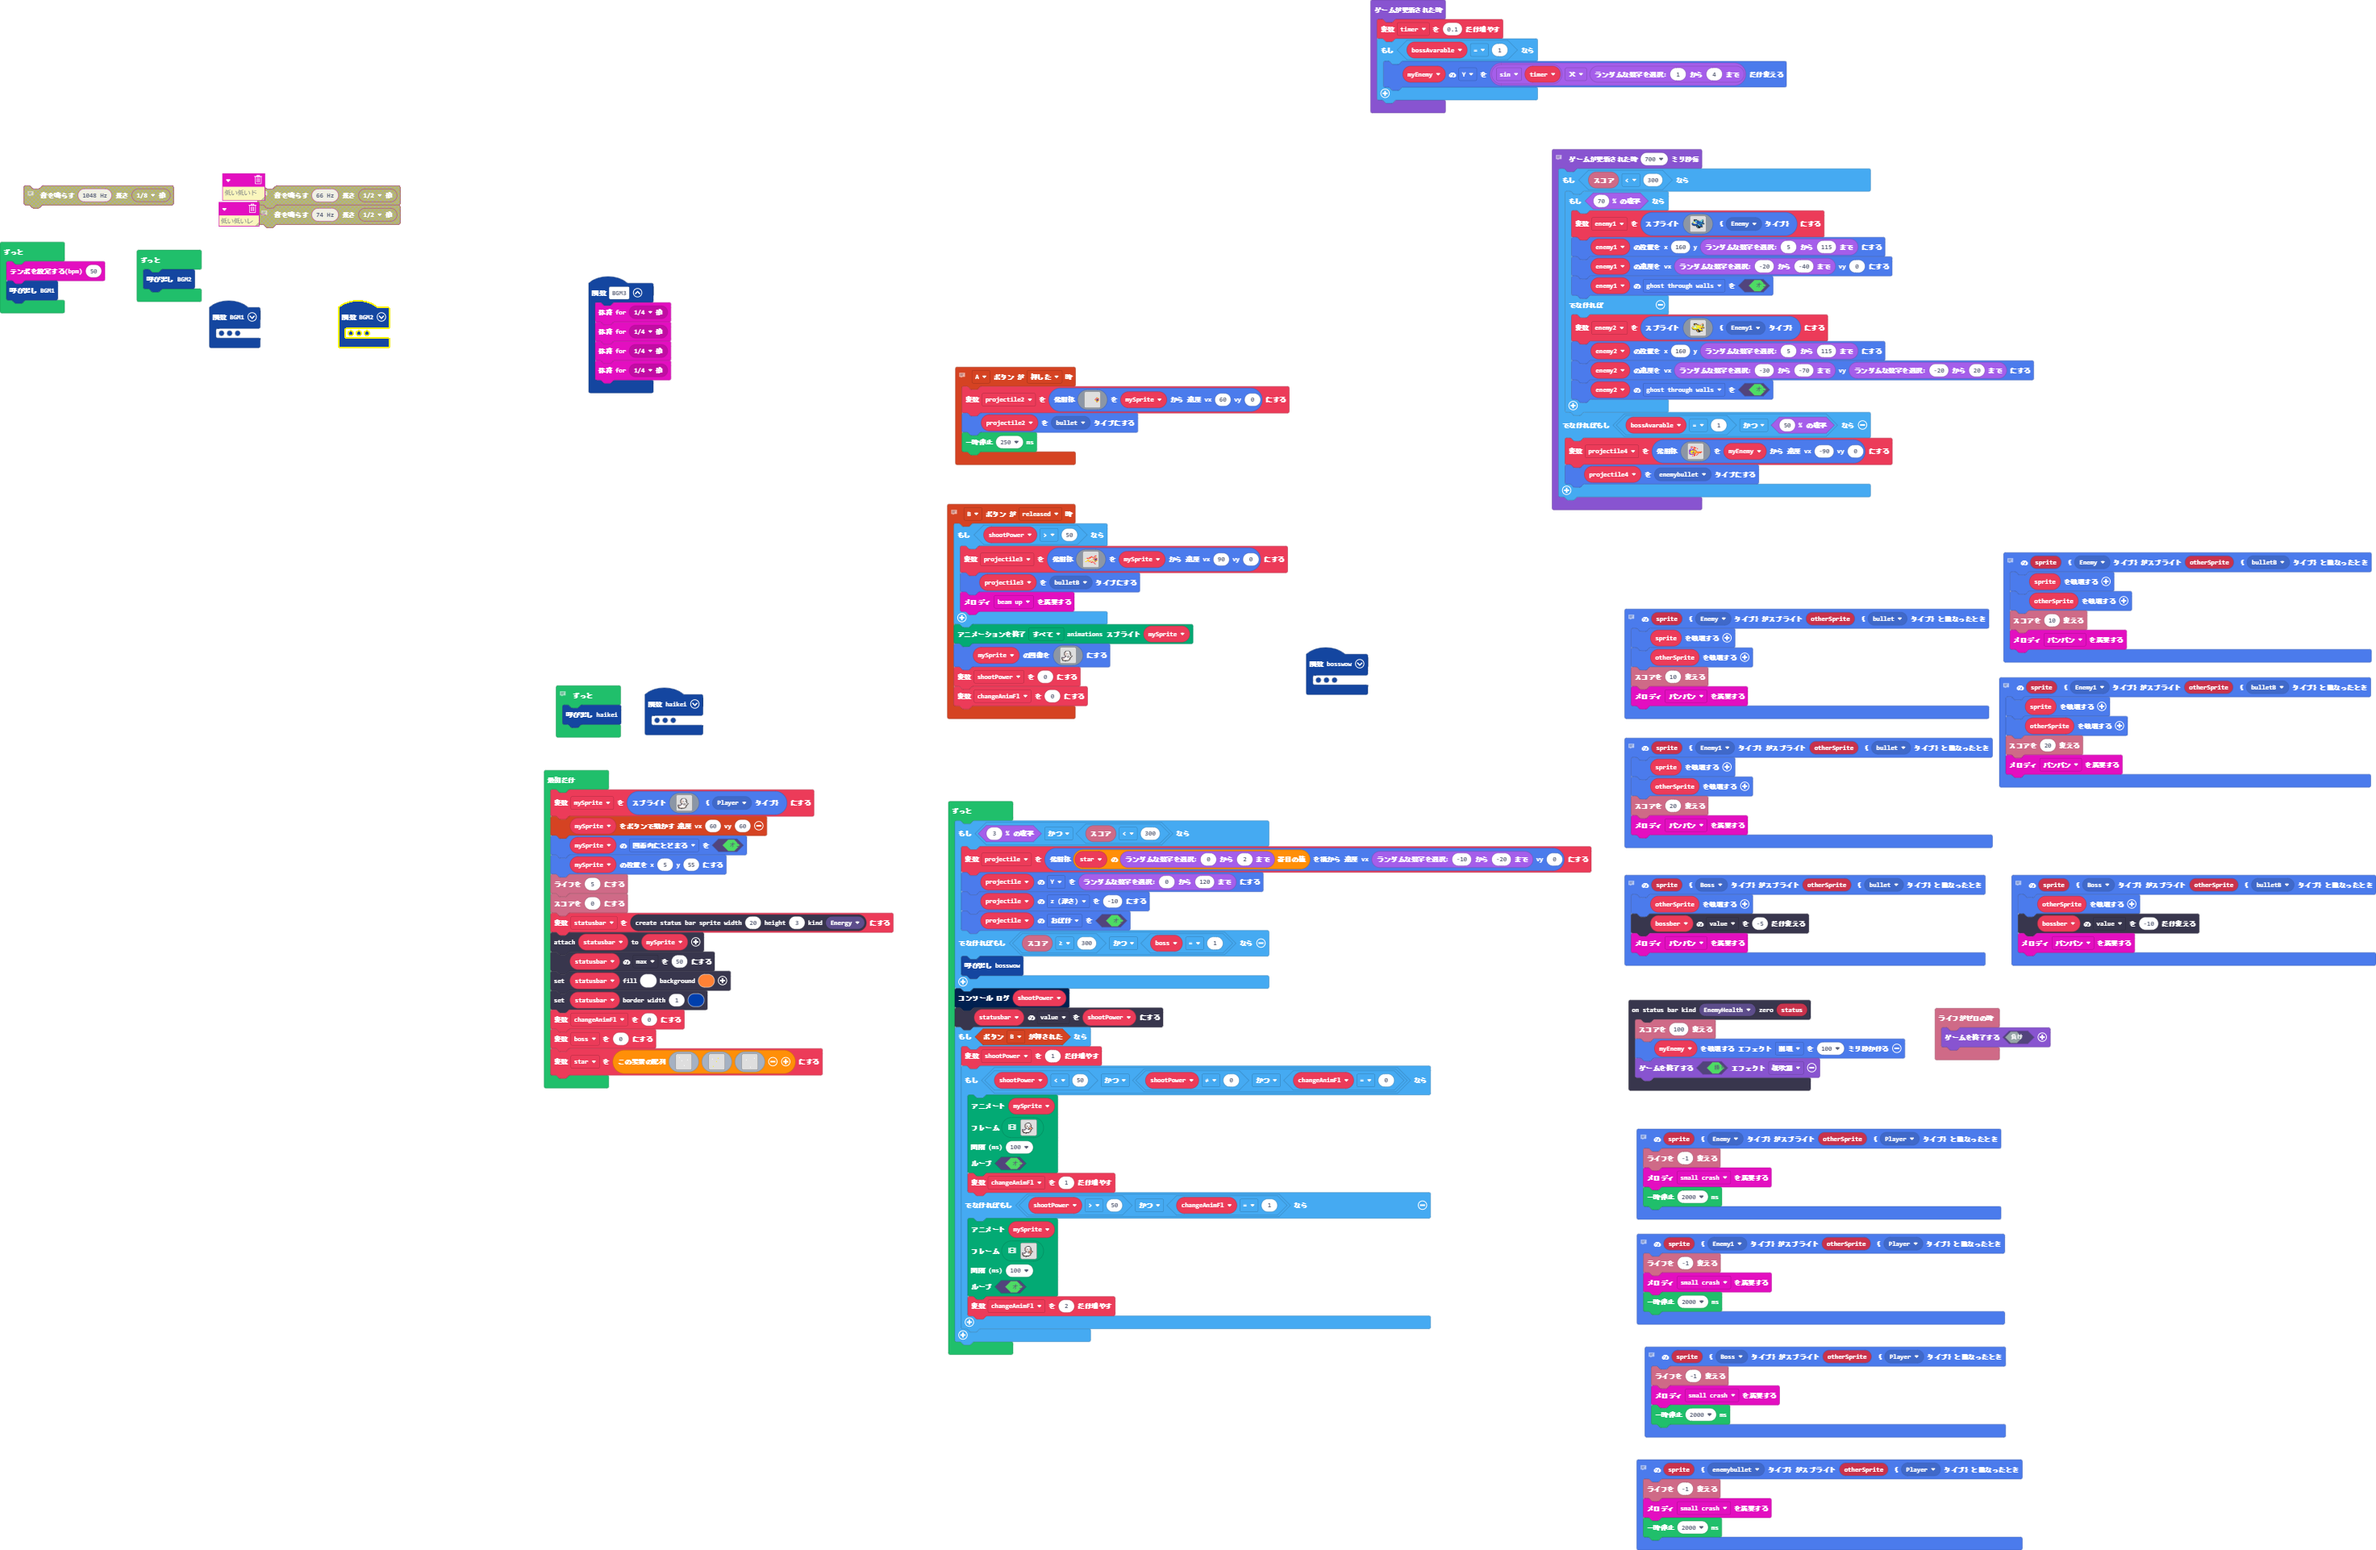
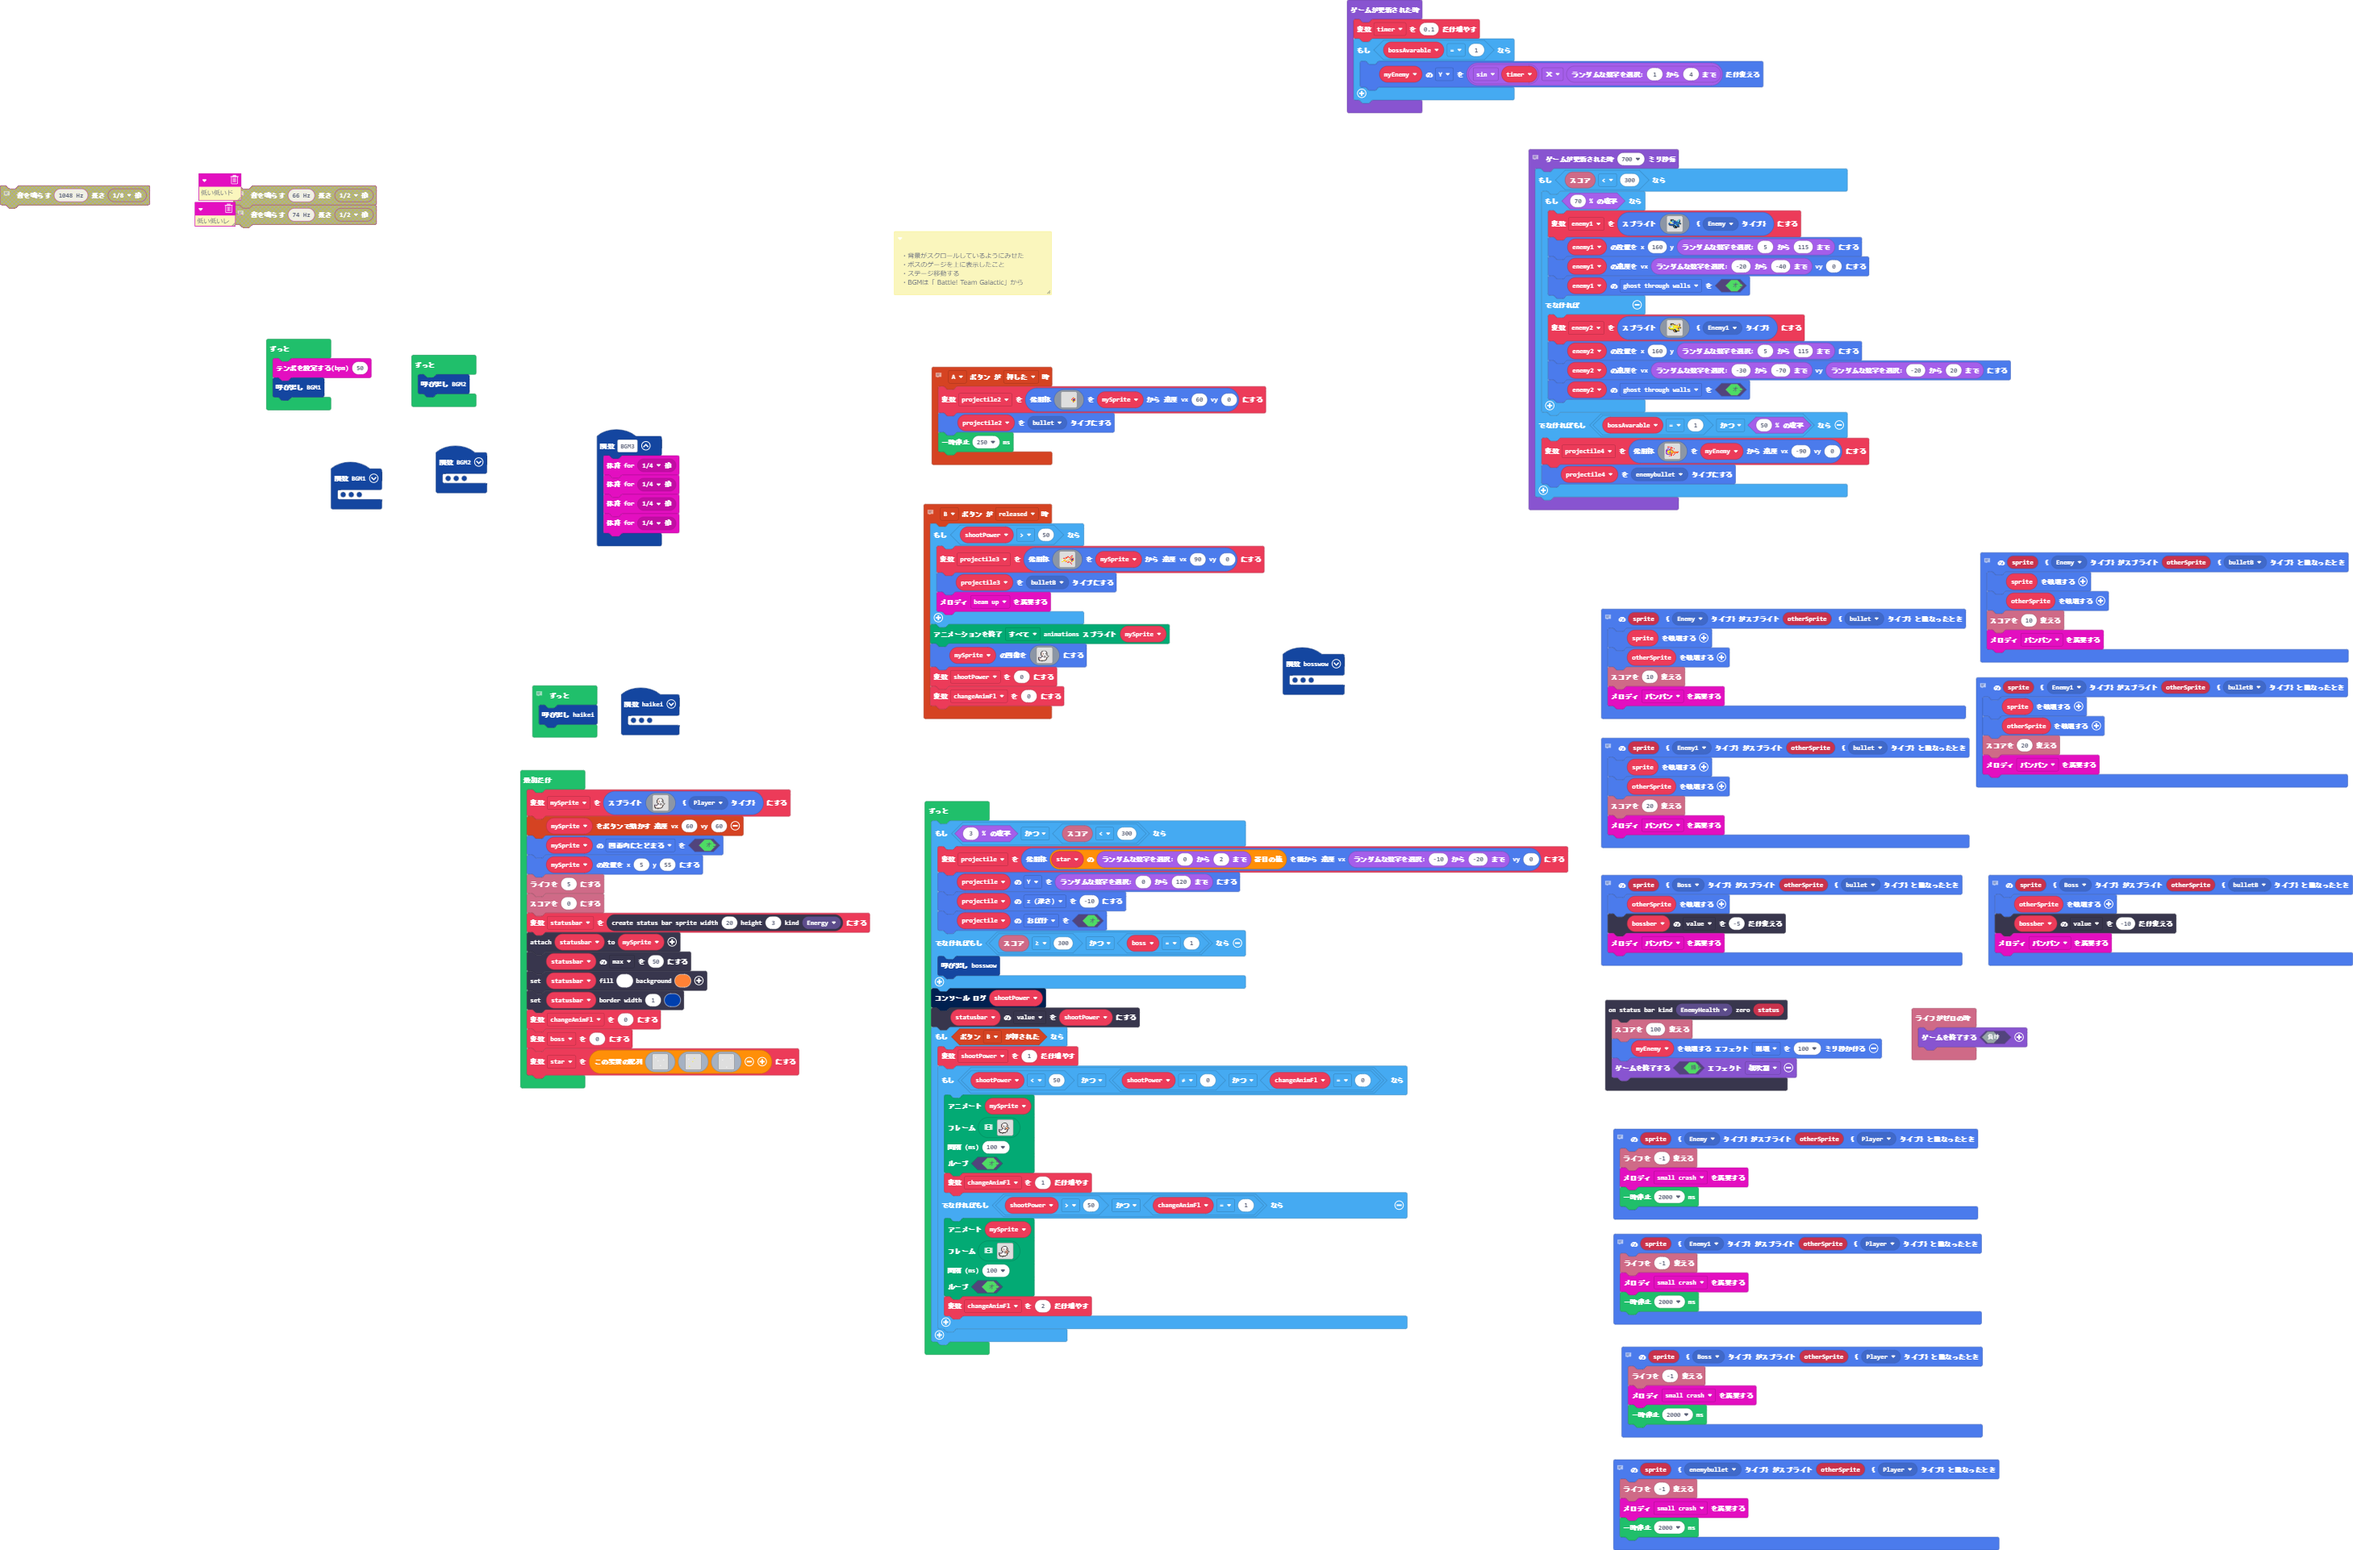
更新 main.blocks, main.ts

diff --git a/main.ts b/main.ts
@@ -6,6 +6,15 @@ namespace SpriteKind {
     export const enemy5 = SpriteKind.create()
     export const enemybullet = SpriteKind.create()
 }
+/**
+ * ・背景がスクロールしているようにみせた
+ * 
+ * ・ボスのゲージを上に表示したこと
+ * 
+ * ・ステージ移動する
+ * 
+ * ・BGMは「 Battle! Team Galactic」から
+ */
 // 自身にダメージ！
 sprites.onOverlap(SpriteKind.Boss, SpriteKind.Player, function (sprite, otherSprite) {
     info.changeLifeBy(-1)
